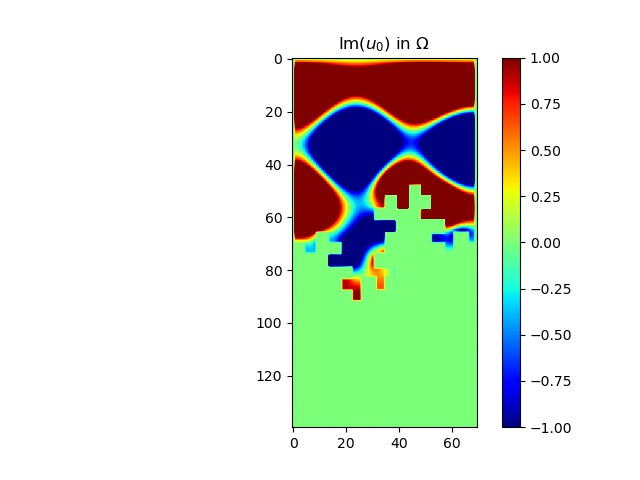
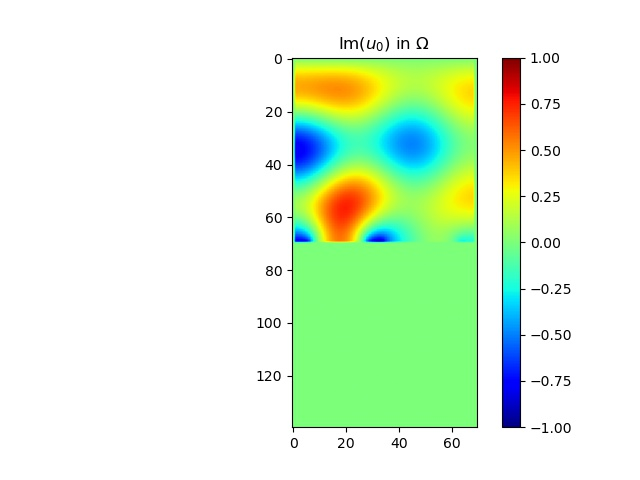
ok

Changed region(s): [[0.4375, 0.125, 0.75, 0.625]]

diff --git a/demo_control_polycopie.py b/demo_control_polycopie.py
@@ -20,7 +20,7 @@ import processing
 import postprocessing
 import alpha_compute
 import pdb
-#import solutions
+# import solutions
 
 import random
 
@@ -34,29 +34,33 @@ def distributions_init(x, budget):
     budget *= 10
 
     ### Distribution en 1 bloc ###
-    distributions.append(
-        list(range(int(2*(len(x)-1)//10), int((2+budget)*(len(x)-1)//10))))
-    distributions.append(
-        list(range(int(5*(len(x)-1)//10), int((5+budget)*(len(x)-1)//10))))
+    # distributions.append(
+    #     list(range(int(2*(len(x)-1)//10), int((2+budget)*(len(x)-1)//10))))
+
+    # distributions.append(
+    #     list(range(int(5*(len(x)-1)//10), int((5+budget)*(len(x)-1)//10))))
 
     ### Distribution en 2 blocs ###
-    add = list(range(int(2*(len(x)-1)//10), int((2+budget/2)*(len(x)-1)//10)))
-    add.extend(list(range(int((2+2*budget)*(len(x)-1)//10),
-                          int((2+2.5*budget)*(len(x)-1)//10))))
-    distributions.append(add)
-    # distributions.append((list(range(int(2*(len(x)-1)//10), int((2+budget/2)*(len(x)-1)//10)))).extend(
-    #     list(range(int((2+2*budget)*(len(x)-1)//10), int((2+2.5*budget)*(len(x)-1)//10)))))
-    add = list(range((int(len(x)-1)//10), int((1+budget/2)*(len(x)-1)//10)))
-    add.extend(list(range(int((1+2*budget)*(len(x)-1)//10),
-                          int((1+2.5*budget)*(len(x)-1)//10))))
-    distributions.append(add)
+    # add = list(range(int(2*(len(x)-1)//10), int((2+budget/2)*(len(x)-1)//10)))
+    # add.extend(list(range(int((2+2*budget)*(len(x)-1)//10),
+    #                       int((2+2.5*budget)*(len(x)-1)//10))))
+    # distributions.append(add)
+
+# distributions.append((list(range(int(2*(len(x)-1)//10), int((2+budget/2)*(len(x)-1)//10)))).extend(
+#     list(range(int((2+2*budget)*(len(x)-1)//10), int((2+2.5*budget)*(len(x)-1)//10)))))
+
+    # add = list(range((int(len(x)-1)//10), int((1+budget/2)*(len(x)-1)//10)))
+    # add.extend(list(range(int((1+2*budget)*(len(x)-1)//10),
+    #                       int((1+2.5*budget)*(len(x)-1)//10))))
+    # distributions.append(add)
+
     # distributions.append((list(range((int(len(x)-1)//10), int((1+budget/2)*(len(x)-1)//10)))).extend(
     #     list(range(int((1+3*budget)*(len(x)-1)//10), int((1+3.5*budget)*(len(x)-1)//10)))))
-    add = list(range(int((5-budget)*(len(x)-1)//10),
-                     int((5-budget/2)*(len(x)-1)//10)))
-    add.extend(
-        list(range(int((5+budget/2)*(len(x)-1)//10), int((5+budget)*(len(x)-1)//10))))
-    distributions.append(add)
+    # add = list(range(int((5-budget)*(len(x)-1)//10),
+    #                  int((5-budget/2)*(len(x)-1)//10)))
+    # add.extend(
+    #     list(range(int((5+budget/2)*(len(x)-1)//10), int((5+budget)*(len(x)-1)//10))))
+    # distributions.append(add)
     # distributions.append((list(range(int((5-budget)*(len(x)-1)//10), int((5-budget/2)*(len(x)-1)//10))
     #                            ).extend(list(range(int((5+budget/2)*(len(x)-1)//10), int((5+budget)*(len(x)-1)//10))))))
 
@@ -66,9 +70,9 @@ def distributions_init(x, budget):
         4*(len(x)-1)//10), int((4+budget/3)*(len(x)-1)//10))))
     add.extend(list(range(int((10-budget/3)*(len(x)-1)//10), int(len(x)-1))))
     distributions.append(add)
-    '''distributions.append(((list(range(int(0*(len(x)-1)//10), int((budget/3)*(len(x)-1)//10)))).extend(list(range(int(
-        4*(len(x)-1)//10), int((4+budget/3)*(len(x)-1)//10))))).extend(list(range(int((10-budget/3)*(len(x)-1)//10), int(len(x)-1)))))
-'''
+    # distributions.append(((list(range(int(0*(len(x)-1)//10), int((budget/3)*(len(x)-1)//10)))).extend(list(range(int(
+    #     4*(len(x)-1)//10), int((4+budget/3)*(len(x)-1)//10))))).extend(list(range(int((10-budget/3)*(len(x)-1)//10), int(len(x)-1)))))
+
     return distributions
 
 
@@ -129,7 +133,7 @@ def your_optimization_procedure(domain_omega, spacestep, wavenumber, f, f_dir, f
 
         Jp[1:, :] = Jp[:-1, :]
 
-        #postprocessing._plot_perso_solution(Jp, chi*0)
+        # postprocessing._plot_perso_solution(Jp, chi*0)
 
         while ene >= energy[k] and mu > eps0:
             l = 0
@@ -238,7 +242,7 @@ if __name__ == '__main__':
     # -- set parameters of the geometry
     N = 70  # number of points along x-axis
     M = 2 * N  # number of points along y-axis
-    level = 2  # level of the fractal : limited by N
+    level = 0  # level of the fractal : limited by N
     spacestep = 1.0 / N  # mesh size
 
     budget = 0.3
@@ -306,8 +310,8 @@ if __name__ == '__main__':
         Alpha = al[0] + 1.0j*al[1]
 
     # -- this is the function you have written during your project
-    #import compute_alpha
-    #Alpha = compute_alpha.compute_alpha(...)
+    # import compute_alpha
+    # Alpha = compute_alpha.compute_alpha(...)
         alpha_rob = Alpha * chi
 
     # -- set parameters for optimization
@@ -354,11 +358,11 @@ if __name__ == '__main__':
         energy_final.append(mini)
         chi_final.append(chi)
 
-        postprocessing._plot_uncontroled_solution(u0, chi0)
-        postprocessing._plot_controled_solution(un, chin)
-        err = un - u0
-        postprocessing._plot_error(err)
-        postprocessing._plot_energy_history(energy)
+    postprocessing._plot_uncontroled_solution(u0, chi0)
+    postprocessing._plot_controled_solution(un, chin)
+    err = un - u0
+    postprocessing._plot_error(err)
+    postprocessing._plot_energy_history(energy)
 
     ind = 0
     mini_ener = energy_final[0][0]
